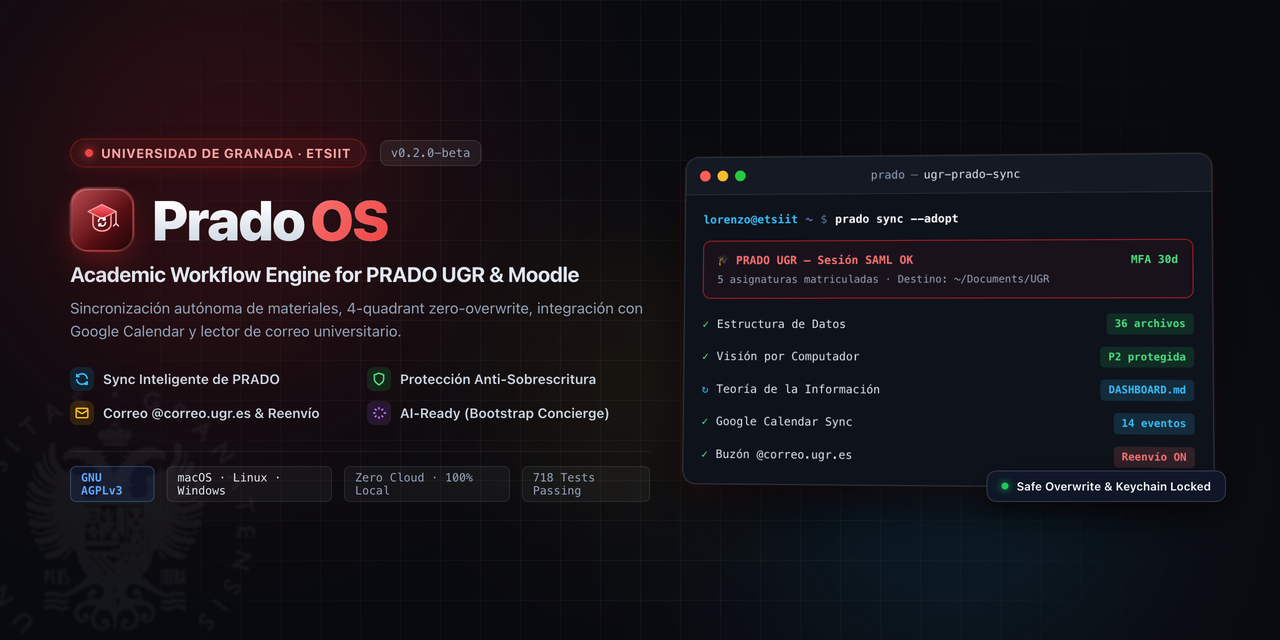
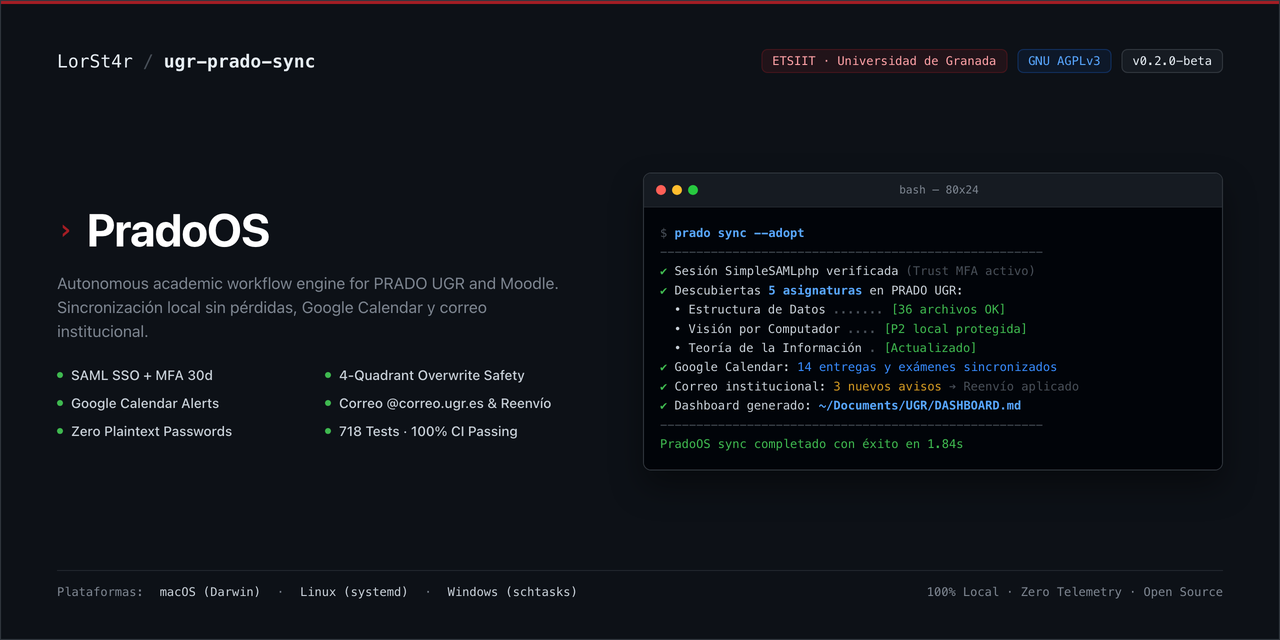
style(assets): replace AI glassmorphism with clean GitHub native engineering preview

diff --git a/assets/banner_clean.html b/assets/banner_clean.html
@@ -1,0 +1,371 @@
+<!DOCTYPE html>
+<html lang="en">
+<head>
+<meta charset="UTF-8">
+<style>
+  @import url('https://fonts.googleapis.com/css2?family=Inter:wght@400;500;600;700&family=JetBrains+Mono:wght@400;500;600&display=swap');
+
+  * {
+    margin: 0;
+    padding: 0;
+    box-sizing: border-box;
+    -webkit-font-smoothing: antialiased;
+  }
+
+  body {
+    width: 1280px;
+    height: 640px;
+    background: #0D1117; /* GitHub Dark Default */
+    overflow: hidden;
+    font-family: 'Inter', -apple-system, BlinkMacSystemFont, 'Segoe UI', sans-serif;
+    color: #E6EDF3;
+    display: flex;
+    flex-direction: column;
+    justify-content: space-between;
+    padding: 48px 56px 40px 56px;
+    position: relative;
+    border: 1px solid #30363D;
+  }
+
+  /* Very subtle, razor-clean top accent bar */
+  .top-accent {
+    position: absolute;
+    top: 0;
+    left: 0;
+    right: 0;
+    height: 3px;
+    background: #A31D24; /* Official UGR Crimson */
+  }
+
+  /* Top Navigation & Identity Row */
+  .header-row {
+    display: flex;
+    align-items: center;
+    justify-content: space-between;
+    width: 100%;
+  }
+
+  .repo-path {
+    display: flex;
+    align-items: center;
+    gap: 10px;
+    font-family: 'JetBrains Mono', monospace;
+    font-size: 18px;
+    color: #7D8590;
+  }
+
+  .repo-owner {
+    color: #E6EDF3;
+    font-weight: 500;
+  }
+
+  .repo-slash {
+    color: #484F58;
+  }
+
+  .repo-name {
+    color: #E6EDF3;
+    font-weight: 700;
+  }
+
+  .header-badges {
+    display: flex;
+    align-items: center;
+    gap: 10px;
+  }
+
+  .badge {
+    font-family: 'JetBrains Mono', monospace;
+    font-size: 12px;
+    font-weight: 500;
+    padding: 4px 10px;
+    border-radius: 6px;
+    border: 1px solid #30363D;
+    background: #161B22;
+    color: #E6EDF3;
+    display: inline-flex;
+    align-items: center;
+    gap: 6px;
+  }
+
+  .badge.license {
+    color: #58A6FF;
+    border-color: #1F6FEB44;
+    background: #0D419D22;
+  }
+
+  .badge.ugr {
+    color: #FFA1A6;
+    border-color: #A31D2444;
+    background: #A31D2422;
+  }
+
+  /* Main Split Layout: Left Text & Specs, Right Real Terminal Window */
+  .main-content {
+    display: flex;
+    align-items: center;
+    justify-content: space-between;
+    gap: 40px;
+    margin: auto 0;
+  }
+
+  /* Left Side: Product Identity */
+  .left-col {
+    max-width: 520px;
+    display: flex;
+    flex-direction: column;
+    gap: 16px;
+  }
+
+  .product-title {
+    font-size: 46px;
+    font-weight: 700;
+    letter-spacing: -1px;
+    line-height: 1.1;
+    color: #FFFFFF;
+    display: flex;
+    align-items: center;
+    gap: 14px;
+  }
+
+  .terminal-prompt-icon {
+    font-family: 'JetBrains Mono', monospace;
+    font-size: 28px;
+    color: #A31D24;
+    font-weight: 700;
+  }
+
+  .product-tagline {
+    font-size: 16px;
+    line-height: 1.5;
+    color: #7D8590;
+    font-weight: 400;
+  }
+
+  /* Spec List - Clean GitHub Issue / Markdown Style */
+  .spec-grid {
+    display: grid;
+    grid-template-columns: 1fr 1fr;
+    gap: 12px 16px;
+    margin-top: 8px;
+  }
+
+  .spec-item {
+    display: flex;
+    align-items: center;
+    gap: 8px;
+    font-size: 13.5px;
+    color: #C9D1D9;
+    font-weight: 500;
+  }
+
+  .spec-dot {
+    width: 6px;
+    height: 6px;
+    border-radius: 50%;
+    background: #3FB950; /* Green check dot */
+    flex-shrink: 0;
+  }
+
+  /* Right Side: Authentic Monospace Terminal Box */
+  .terminal-box {
+    width: 580px;
+    background: #010409;
+    border: 1px solid #30363D;
+    border-radius: 8px;
+    overflow: hidden;
+    box-shadow: 0 16px 32px rgba(0, 0, 0, 0.4);
+  }
+
+  .terminal-bar {
+    background: #161B22;
+    border-bottom: 1px solid #21262D;
+    height: 34px;
+    display: flex;
+    align-items: center;
+    padding: 0 12px;
+    justify-content: space-between;
+  }
+
+  .terminal-dots {
+    display: flex;
+    gap: 6px;
+  }
+
+  .tdot {
+    width: 10px;
+    height: 10px;
+    border-radius: 50%;
+  }
+
+  .tdot.r { background: #FF5F56; }
+  .tdot.y { background: #FFBD2E; }
+  .tdot.g { background: #27C93F; }
+
+  .terminal-tab {
+    font-family: 'JetBrains Mono', monospace;
+    font-size: 11px;
+    color: #7D8590;
+  }
+
+  .terminal-body {
+    padding: 16px;
+    font-family: 'JetBrains Mono', monospace;
+    font-size: 12px;
+    line-height: 1.6;
+    color: #C9D1D9;
+    background: #010409;
+  }
+
+  .t-cmd {
+    color: #58A6FF;
+    font-weight: 600;
+  }
+
+  .t-dim {
+    color: #484F58;
+  }
+
+  .t-green {
+    color: #3FB950;
+  }
+
+  .t-yellow {
+    color: #D29922;
+  }
+
+  .t-red {
+    color: #F85149;
+  }
+
+  .t-cyan {
+    color: #388BFD;
+  }
+
+  /* Footer Meta Row */
+  .footer-row {
+    display: flex;
+    align-items: center;
+    justify-content: space-between;
+    width: 100%;
+    padding-top: 14px;
+    border-top: 1px solid #21262D;
+    font-size: 12px;
+    color: #7D8590;
+    font-family: 'JetBrains Mono', monospace;
+  }
+
+  .footer-platforms {
+    display: flex;
+    align-items: center;
+    gap: 16px;
+  }
+
+  .footer-platforms span {
+    color: #C9D1D9;
+  }
+</style>
+</head>
+<body>
+
+  <div class="top-accent"></div>
+
+  <!-- Header: Repository identity & release tag -->
+  <div class="header-row">
+    <div class="repo-path">
+      <span class="repo-owner">LorSt4r</span>
+      <span class="repo-slash">/</span>
+      <span class="repo-name">ugr-prado-sync</span>
+    </div>
+
+    <div class="header-badges">
+      <div class="badge ugr">ETSIIT · Universidad de Granada</div>
+      <div class="badge license">GNU AGPLv3</div>
+      <div class="badge">v0.2.0-beta</div>
+    </div>
+  </div>
+
+  <!-- Main Section -->
+  <div class="main-content">
+    
+    <!-- Left: Minimalist Clean Headline -->
+    <div class="left-col">
+      <div class="product-title">
+        <span class="terminal-prompt-icon">›</span>
+        <span>PradoOS</span>
+      </div>
+
+      <div class="product-tagline">
+        Autonomous academic workflow engine for PRADO UGR and Moodle. Sincronización local sin pérdidas, Google Calendar y correo institucional.
+      </div>
+
+      <div class="spec-grid">
+        <div class="spec-item">
+          <div class="spec-dot"></div>
+          <span>SAML SSO + MFA 30d</span>
+        </div>
+        <div class="spec-item">
+          <div class="spec-dot"></div>
+          <span>4-Quadrant Overwrite Safety</span>
+        </div>
+        <div class="spec-item">
+          <div class="spec-dot"></div>
+          <span>Google Calendar Alerts</span>
+        </div>
+        <div class="spec-item">
+          <div class="spec-dot"></div>
+          <span>Correo @correo.ugr.es & Reenvío</span>
+        </div>
+        <div class="spec-item">
+          <div class="spec-dot"></div>
+          <span>Zero Plaintext Passwords</span>
+        </div>
+        <div class="spec-item">
+          <div class="spec-dot"></div>
+          <span>718 Tests · 100% CI Passing</span>
+        </div>
+      </div>
+    </div>
+
+    <!-- Right: Authentic Terminal Session -->
+    <div class="terminal-box">
+      <div class="terminal-bar">
+        <div class="terminal-dots">
+          <div class="tdot r"></div>
+          <div class="tdot y"></div>
+          <div class="tdot g"></div>
+        </div>
+        <div class="terminal-tab">bash — 80x24</div>
+        <div style="width: 30px;"></div>
+      </div>
+
+      <div class="terminal-body">
+        <div><span class="t-dim">$</span> <span class="t-cmd">prado sync --adopt</span></div>
+        <div class="t-dim">-----------------------------------------------------</div>
+        <div><span class="t-green">✔</span> Sesión SimpleSAMLphp verificada <span class="t-dim">(Trust MFA activo)</span></div>
+        <div><span class="t-green">✔</span> Descubiertas <span class="t-cmd">5 asignaturas</span> en PRADO UGR:</div>
+        <div style="padding-left: 14px;">
+          <div>• Estructura de Datos <span class="t-dim">.......</span> <span class="t-green">[36 archivos OK]</span></div>
+          <div>• Visión por Computador <span class="t-dim">....</span> <span class="t-green">[P2 local protegida]</span></div>
+          <div>• Teoría de la Información <span class="t-dim">.</span> <span class="t-green">[Actualizado]</span></div>
+        </div>
+        <div><span class="t-green">✔</span> Google Calendar: <span class="t-cyan">14 entregas y exámenes sincronizados</span></div>
+        <div><span class="t-green">✔</span> Correo institucional: <span class="t-yellow">3 nuevos avisos</span> <span class="t-dim">➔ Reenvío aplicado</span></div>
+        <div><span class="t-green">✔</span> Dashboard generado: <span class="t-cmd">~/Documents/UGR/DASHBOARD.md</span></div>
+        <div class="t-dim">-----------------------------------------------------</div>
+        <div><span class="t-green">PradoOS sync completado con éxito en 1.84s</span></div>
+      </div>
+    </div>
+
+  </div>
+
+  <!-- Footer: Technical metadata -->
+  <div class="footer-row">
+    <div class="footer-platforms">
+      Plataformas: <span>macOS (Darwin)</span> · <span>Linux (systemd)</span> · <span>Windows (schtasks)</span>
+    </div>
+    <div>100% Local · Zero Telemetry · Open Source</div>
+  </div>
+
+</body>
+</html>
